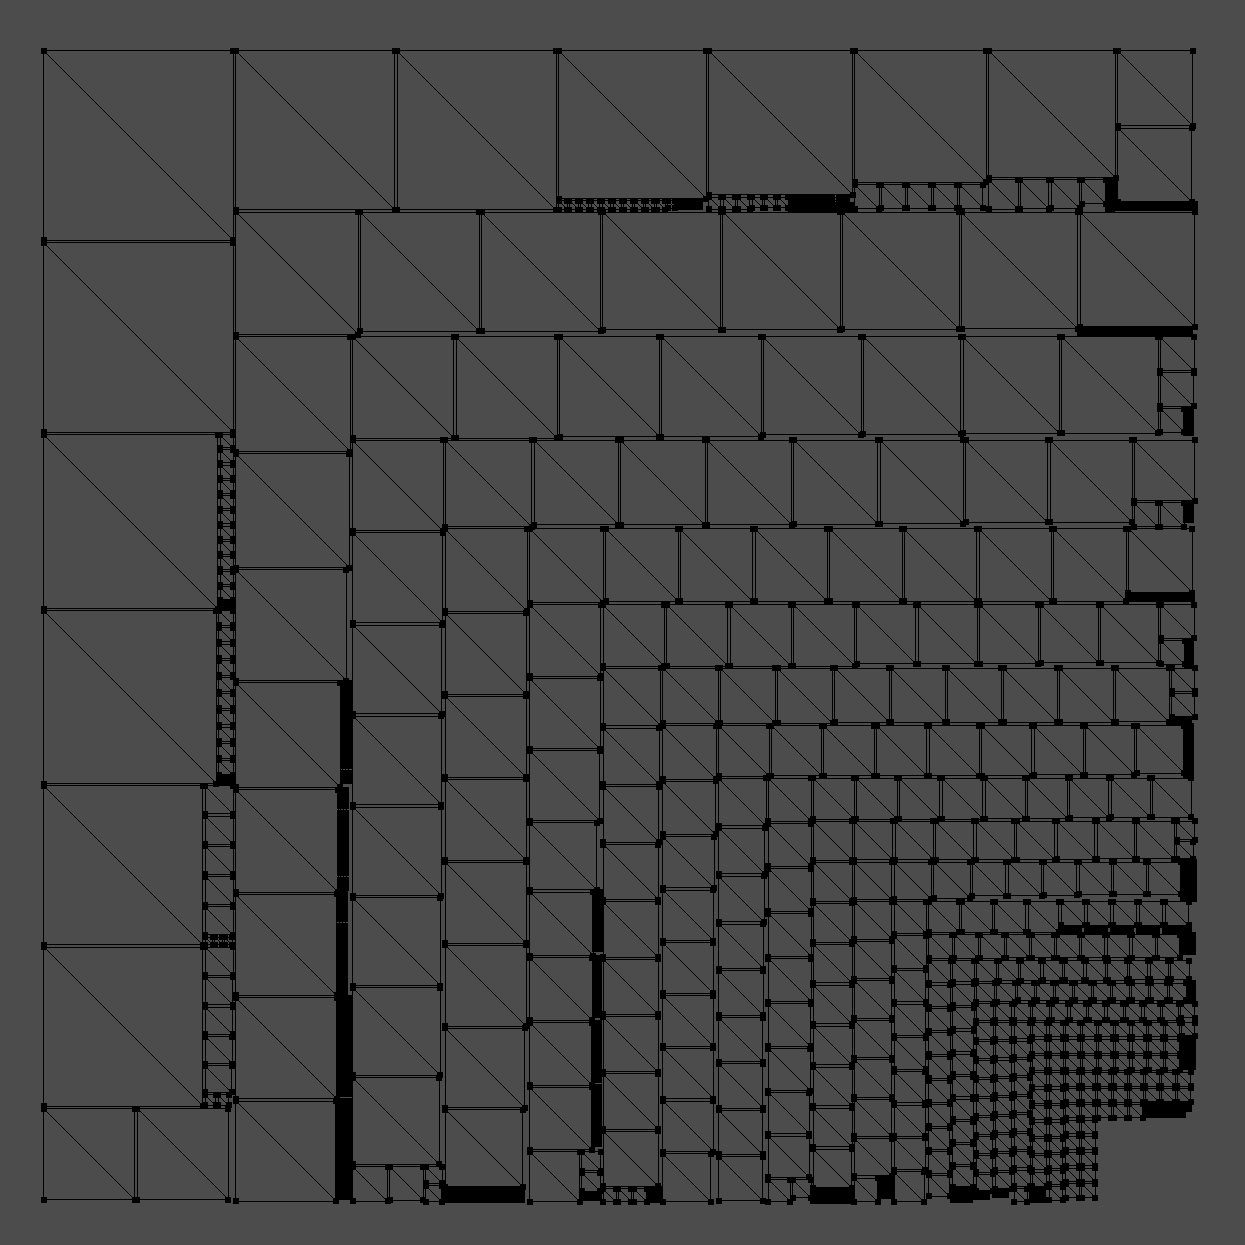
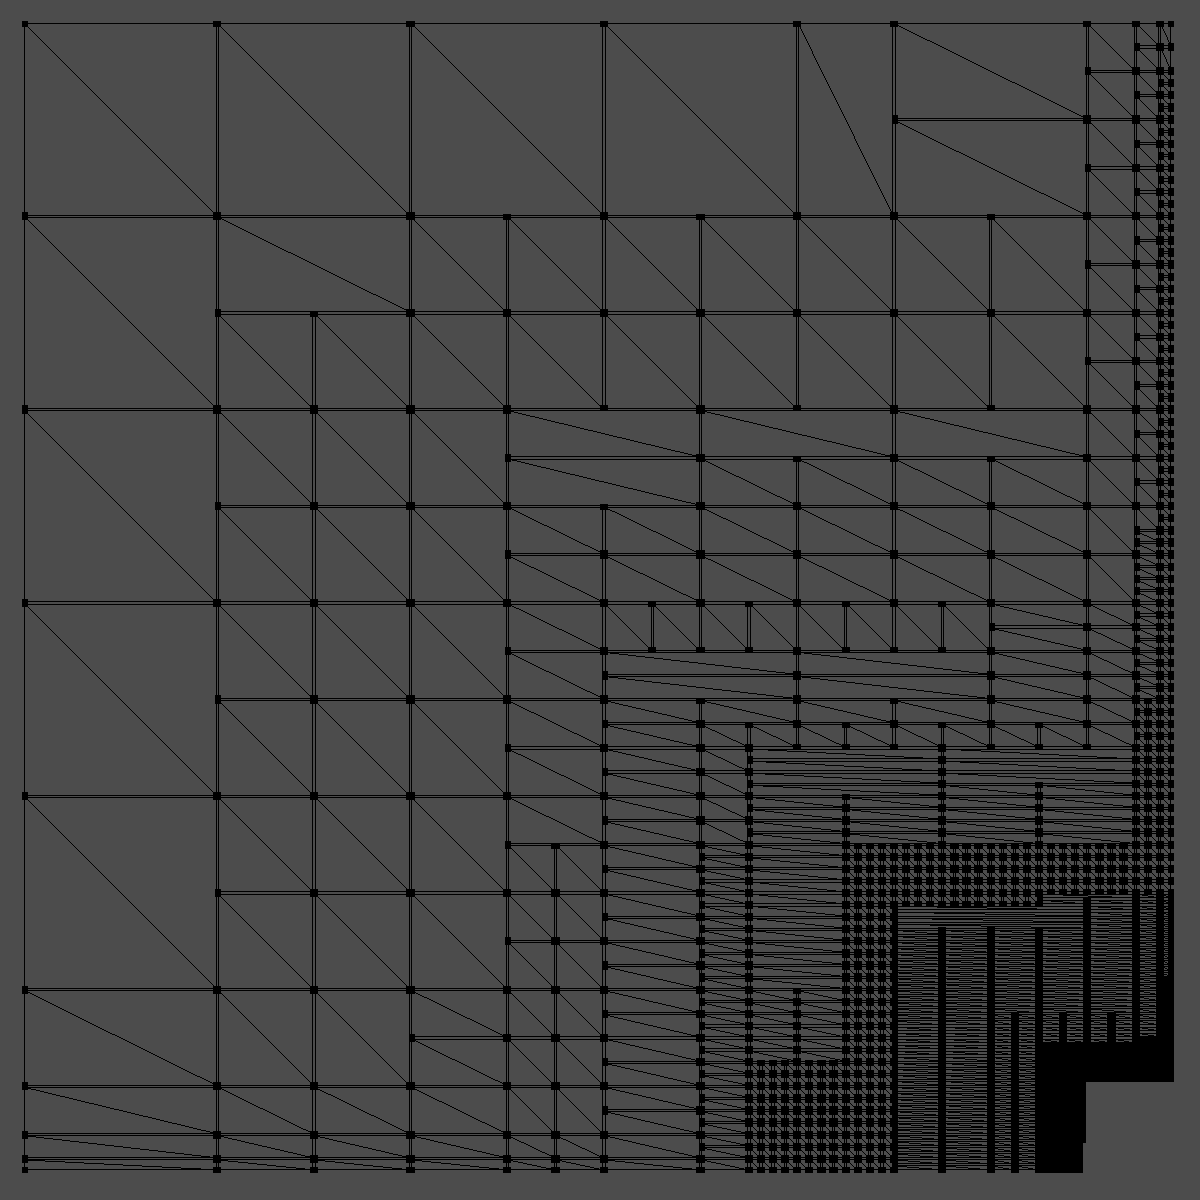
better quality

diff --git a/trianglepacker.hpp b/trianglepacker.hpp
@@ -274,24 +274,23 @@ namespace ray
 				uv[5] += offset;
 			}
 
-			void computeUV() noexcept
+			void computeUV(const Vector2<_Tx>& border) noexcept
 			{
-				uv[0] = Vector2<_Tx>(0, margin.y);
-				uv[1] = Vector2<_Tx>(0, edge.y);
-				uv[2] = Vector2<_Tx>(edge.x - margin.x, edge.y);
+				uv[0] = Vector2<_Tx>(0, margin.y) + border;
+				uv[1] = Vector2<_Tx>(border.x, edge.y - border.x);
+				uv[2] = Vector2<_Tx>(edge.x - margin.x, edge.y) - border;
 
-				uv[3] = Vector2<_Tx>(edge.x, edge.y - margin.y);
-				uv[4] = Vector2<_Tx>(edge.x, 0);
-				uv[5] = Vector2<_Tx>(margin.x, 0);
+				uv[3] = Vector2<_Tx>(edge.x, edge.y - margin.y) - border;
+				uv[4] = Vector2<_Tx>(edge.x - border.x, border.y);
+				uv[5] = Vector2<_Tx>(margin.x, 0) + border;
 			}
 
 			void computeEdge() noexcept
 			{
 				if (t1 && t2)
 				{
-					auto area = sqrt((t1->area() + t2->area()) / 2);
-					edge.x = area;
-					edge.y = area;
+					edge.x = 2 << ((int)std::round(std::log2((t1->w + t2->w) / 2)));
+					edge.y = 2 << ((int)std::round(std::log2((t1->h + t2->h))));
 				}
 				else
 				{
@@ -319,6 +318,45 @@ namespace ray
 			QuadNode() noexcept : _rect(0, 0, 1, 1) {}
 			QuadNode(const Vector4<_Tx>& rect) noexcept : _rect(rect) {}
 
+			QuadNode* insert(Quad<_Tx, _Ty>& q, bool write = true)
+			{
+				if (_child[0] && _child[1])
+				{
+					QuadNode<_Tx, _Ty>* c = _child[0]->insert(q);
+					return c ? c : _child[1]->insert(q);
+				}
+				else
+				{
+					if (q.edge.x > _rect.z || q.edge.y > _rect.w)
+						return nullptr;
+
+					_child[0] = std::make_unique<QuadNode<_Tx, _Ty>>();
+					_child[1] = std::make_unique<QuadNode<_Tx, _Ty>>();
+
+					_Tx dw = _rect.z - q.edge.x;
+					_Tx dh = _rect.w - q.edge.y;
+
+					if (dw < dh)
+					{
+						_child[0]->_rect = Vector4<_Tx>(_rect.x + q.edge.x, _rect.y, _rect.z - q.edge.x, q.edge.y);
+						_child[1]->_rect = Vector4<_Tx>(_rect.x, _rect.y + q.edge.y, _rect.z, _rect.w - q.edge.y);
+					}
+					else
+					{
+						_child[0]->_rect = Vector4<_Tx>(_rect.x, _rect.y + q.edge.y, q.edge.x, _rect.w - q.edge.y);
+						_child[1]->_rect = Vector4<_Tx>(_rect.x + q.edge.x, _rect.y, _rect.z - q.edge.x, _rect.w);
+					}
+
+					if (write)
+					{
+						Vector2<_Tx> offset(_rect.x, _rect.y);
+						q.translate(offset);
+					}
+
+					return this;
+				}
+			}
+
 			QuadNode* insert(Quad<_Tx, _Ty>& q, const Vector2<_Tx>& margin, bool write = true)
 			{
 				if (_child[0] && _child[1])
@@ -330,17 +368,6 @@ namespace ray
 				{
 					if (q.edge.x > _rect.z || q.edge.y > _rect.w)
 						return nullptr;
-
-					if (q.edge.x == _rect.z && q.edge.y == _rect.w)
-					{
-						if (write)
-						{
-							Vector2<_Tx> offset(_rect.x, _rect.y);
-							q.translate(offset);
-						}
-
-						return this;
-					}
 
 					_child[0] = std::make_unique<QuadNode<_Tx, _Ty>>();
 					_child[1] = std::make_unique<QuadNode<_Tx, _Ty>>();
@@ -453,18 +480,18 @@ namespace ray
 			return lightmappack(tris, width, height, scale, margin, outUVs) == tris.size();
 		}
 
-		template<typename index_t = short>
+		template<typename index_t = std::uint16_t, typename = std::enable_if_t<std::is_unsigned_v<index_t>>>
 		static bool lightmappack(const value_t* positions, const index_t* indices, size_type indexCount, int width, int height, value_t scale, int margin, value_t* outVertices, value_t* outUVs)
 		{
 			return lightmappack(positions, indices, indexCount, sizeof(index_t), width, height, scale, margin, outVertices, outUVs);
 		}
 
-		template<typename index_t = short>
+		template<typename index_t = std::uint16_t, typename = std::enable_if_t<std::is_unsigned_v<index_t>>>
 		static bool lightmappack(const value_t* positions, const index_t* indices, size_type indexCount, size_type indexStride, int width, int height, value_t scale, int margin, value_t* outVertices, value_t* outUVs)
 		{
 			auto p = (const vec3_t*)positions;
 			auto vertices = (vec3_t*)outVertices;
-			auto border = vec2_t((value_t)margin / width, (value_t)margin / height);
+			auto border = vec2_t((value_t)margin / width / 2, (value_t)margin / height / 2);
 
 			std::vector<triangle_t> tris(indexCount / 3);
 			std::vector<quad_t> quad(indexCount / 6);
@@ -525,12 +552,15 @@ namespace ray
 				}
 			}
 
-			std::sort(quad.begin(), quad.end(), [](const quad_t& a, const quad_t& b)->bool
+			std::qsort(quad.data(), quad.size(), sizeof(quad_t), [](const void* a, const void* b) -> int
 			{
-				return a.area() > b.area();
+				auto t1 = (quad_t*)a;
+				auto t2 = (quad_t*)b;
+				auto dh = t2->edge.y - t1->edge.y;
+				return dh != 0 ? dh : (t2->edge.x - t1->edge.x);
 			});
 
-			return lightmappack(quad, width, height, scale, margin, outUVs) == quad.size();
+			return lightmappack(quad, width, height, scale, border, outUVs) == quad.size();
 		}
 
 	private:
@@ -546,7 +576,7 @@ namespace ray
 			for (auto& it : quad)
 			{
 				it.edge /= area;
-				it.computeUV();
+				it.computeUV(margin);
 			}
 
 			quad_node_t root;
@@ -555,7 +585,7 @@ namespace ray
 
 			for (std::size_t i = 0; i < quad.size(); i++)
 			{
-				if (!root.insert(quad[i], margin, write))
+				if (!root.insert(quad[i], write))
 					return (i + 1);
 			}
 
@@ -647,31 +677,32 @@ namespace ray
 			return lightmappack(tris, width, height, scale, testScale, border, outUVs);
 		}
 
-		static size_type lightmappack(const std::vector<quad_t>& quad, int width, int height, value_t scale, int margin, value_t* outUVs)
+		static size_type lightmappack(const std::vector<quad_t>& quad, int width, int height, value_t scale, const vec2_t& margin, value_t* outUVs)
 		{
 			value_t testScale = 1.0f;
-			auto border = vec2_t((value_t)margin / width, (value_t)margin / height);
 
-			size_type processed = lightmappack(quad, width, height, scale, testScale, border, 0);
+			size_type processed = lightmappack(quad, width, height, scale, testScale, margin, 0);
 
-			if (processed > quad.size())
+			if (processed >= quad.size())
 			{
-				for (std::uint8_t j = 0; processed > quad.size() && j < 16; j++)
+				for (std::uint8_t j = 0; processed >= quad.size() && j < 16; j++)
 				{
-					testScale -= 0.022;
-					processed = lightmappack(quad, width, height, scale, testScale, border, 0);
+					testScale -= 0.005;
+					processed = lightmappack(quad, width, height, scale, testScale, margin, 0);
 				}
+
+				testScale += 0.005;
 			}
 			else
 			{
 				for (std::uint8_t j = 0; processed < quad.size() && j < 16; j++)
 				{
-					testScale += 0.022;
-					processed = lightmappack(quad, width, height, scale, testScale, border, 0);
+					testScale += 0.005;
+					processed = lightmappack(quad, width, height, scale, testScale, margin, 0);
 				}
 			}
 
-			return lightmappack(quad, width, height, scale, testScale, border, outUVs);
+			return lightmappack(quad, width, height, scale, testScale, margin, outUVs);
 		}
 	};
 
